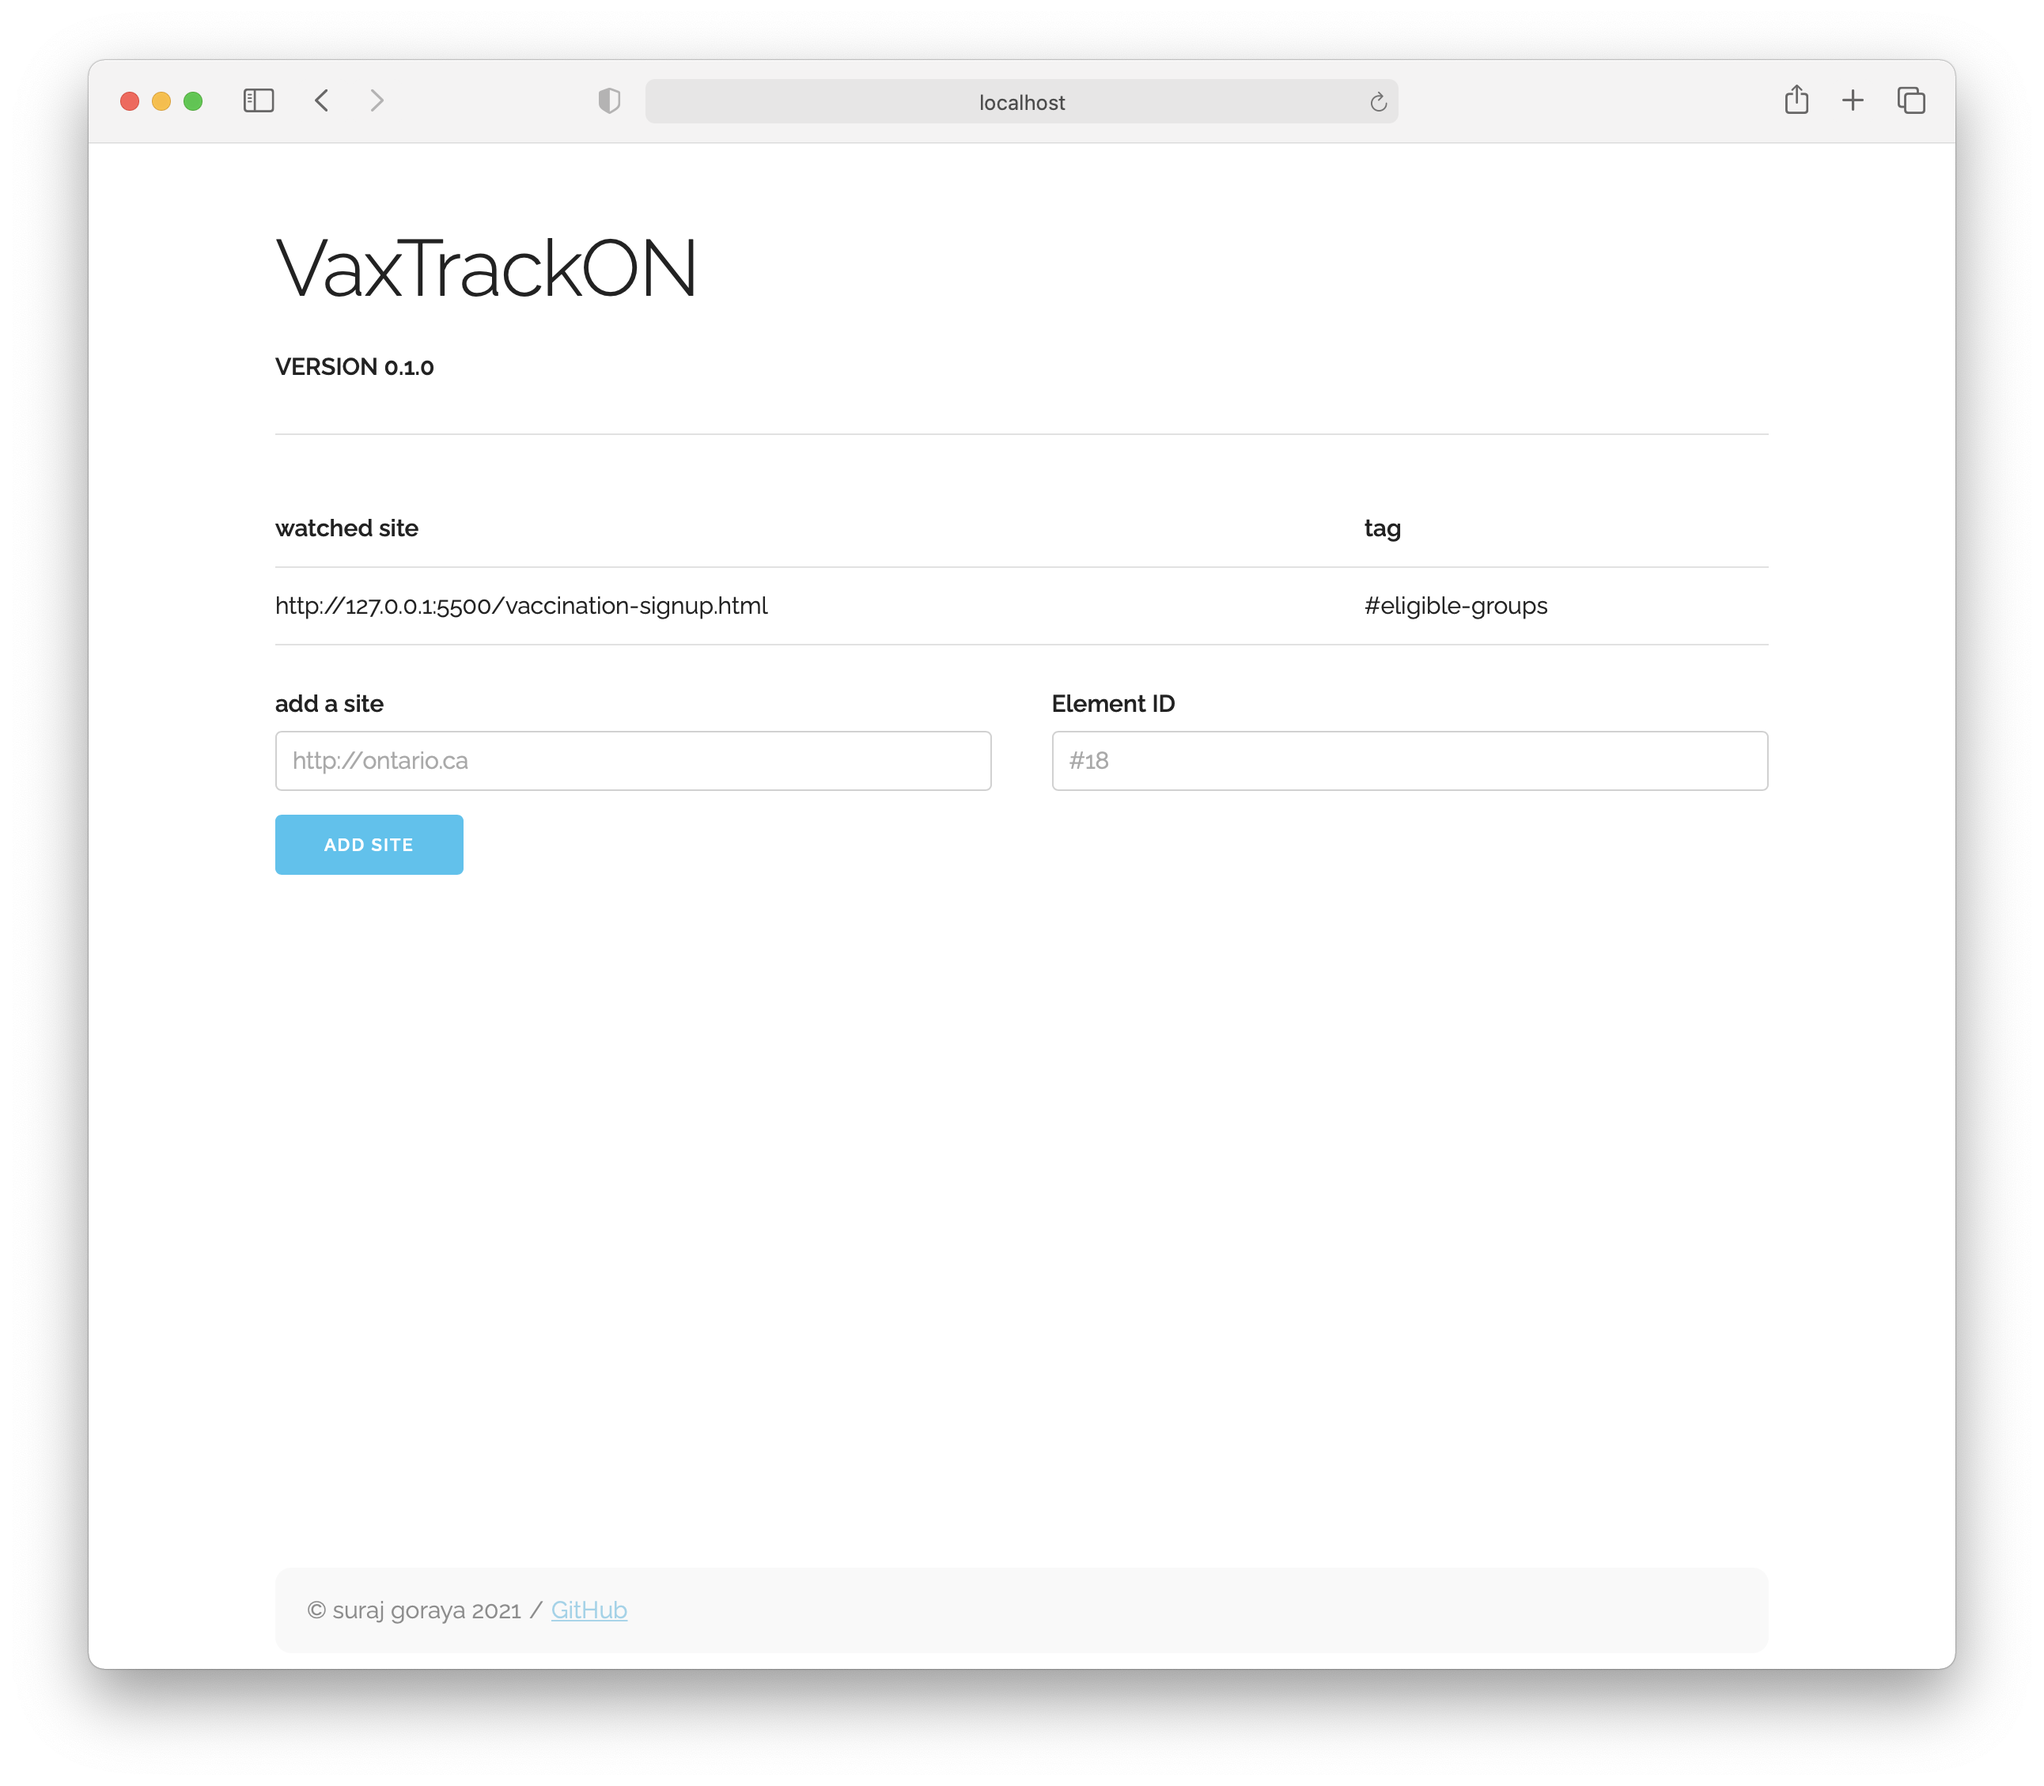
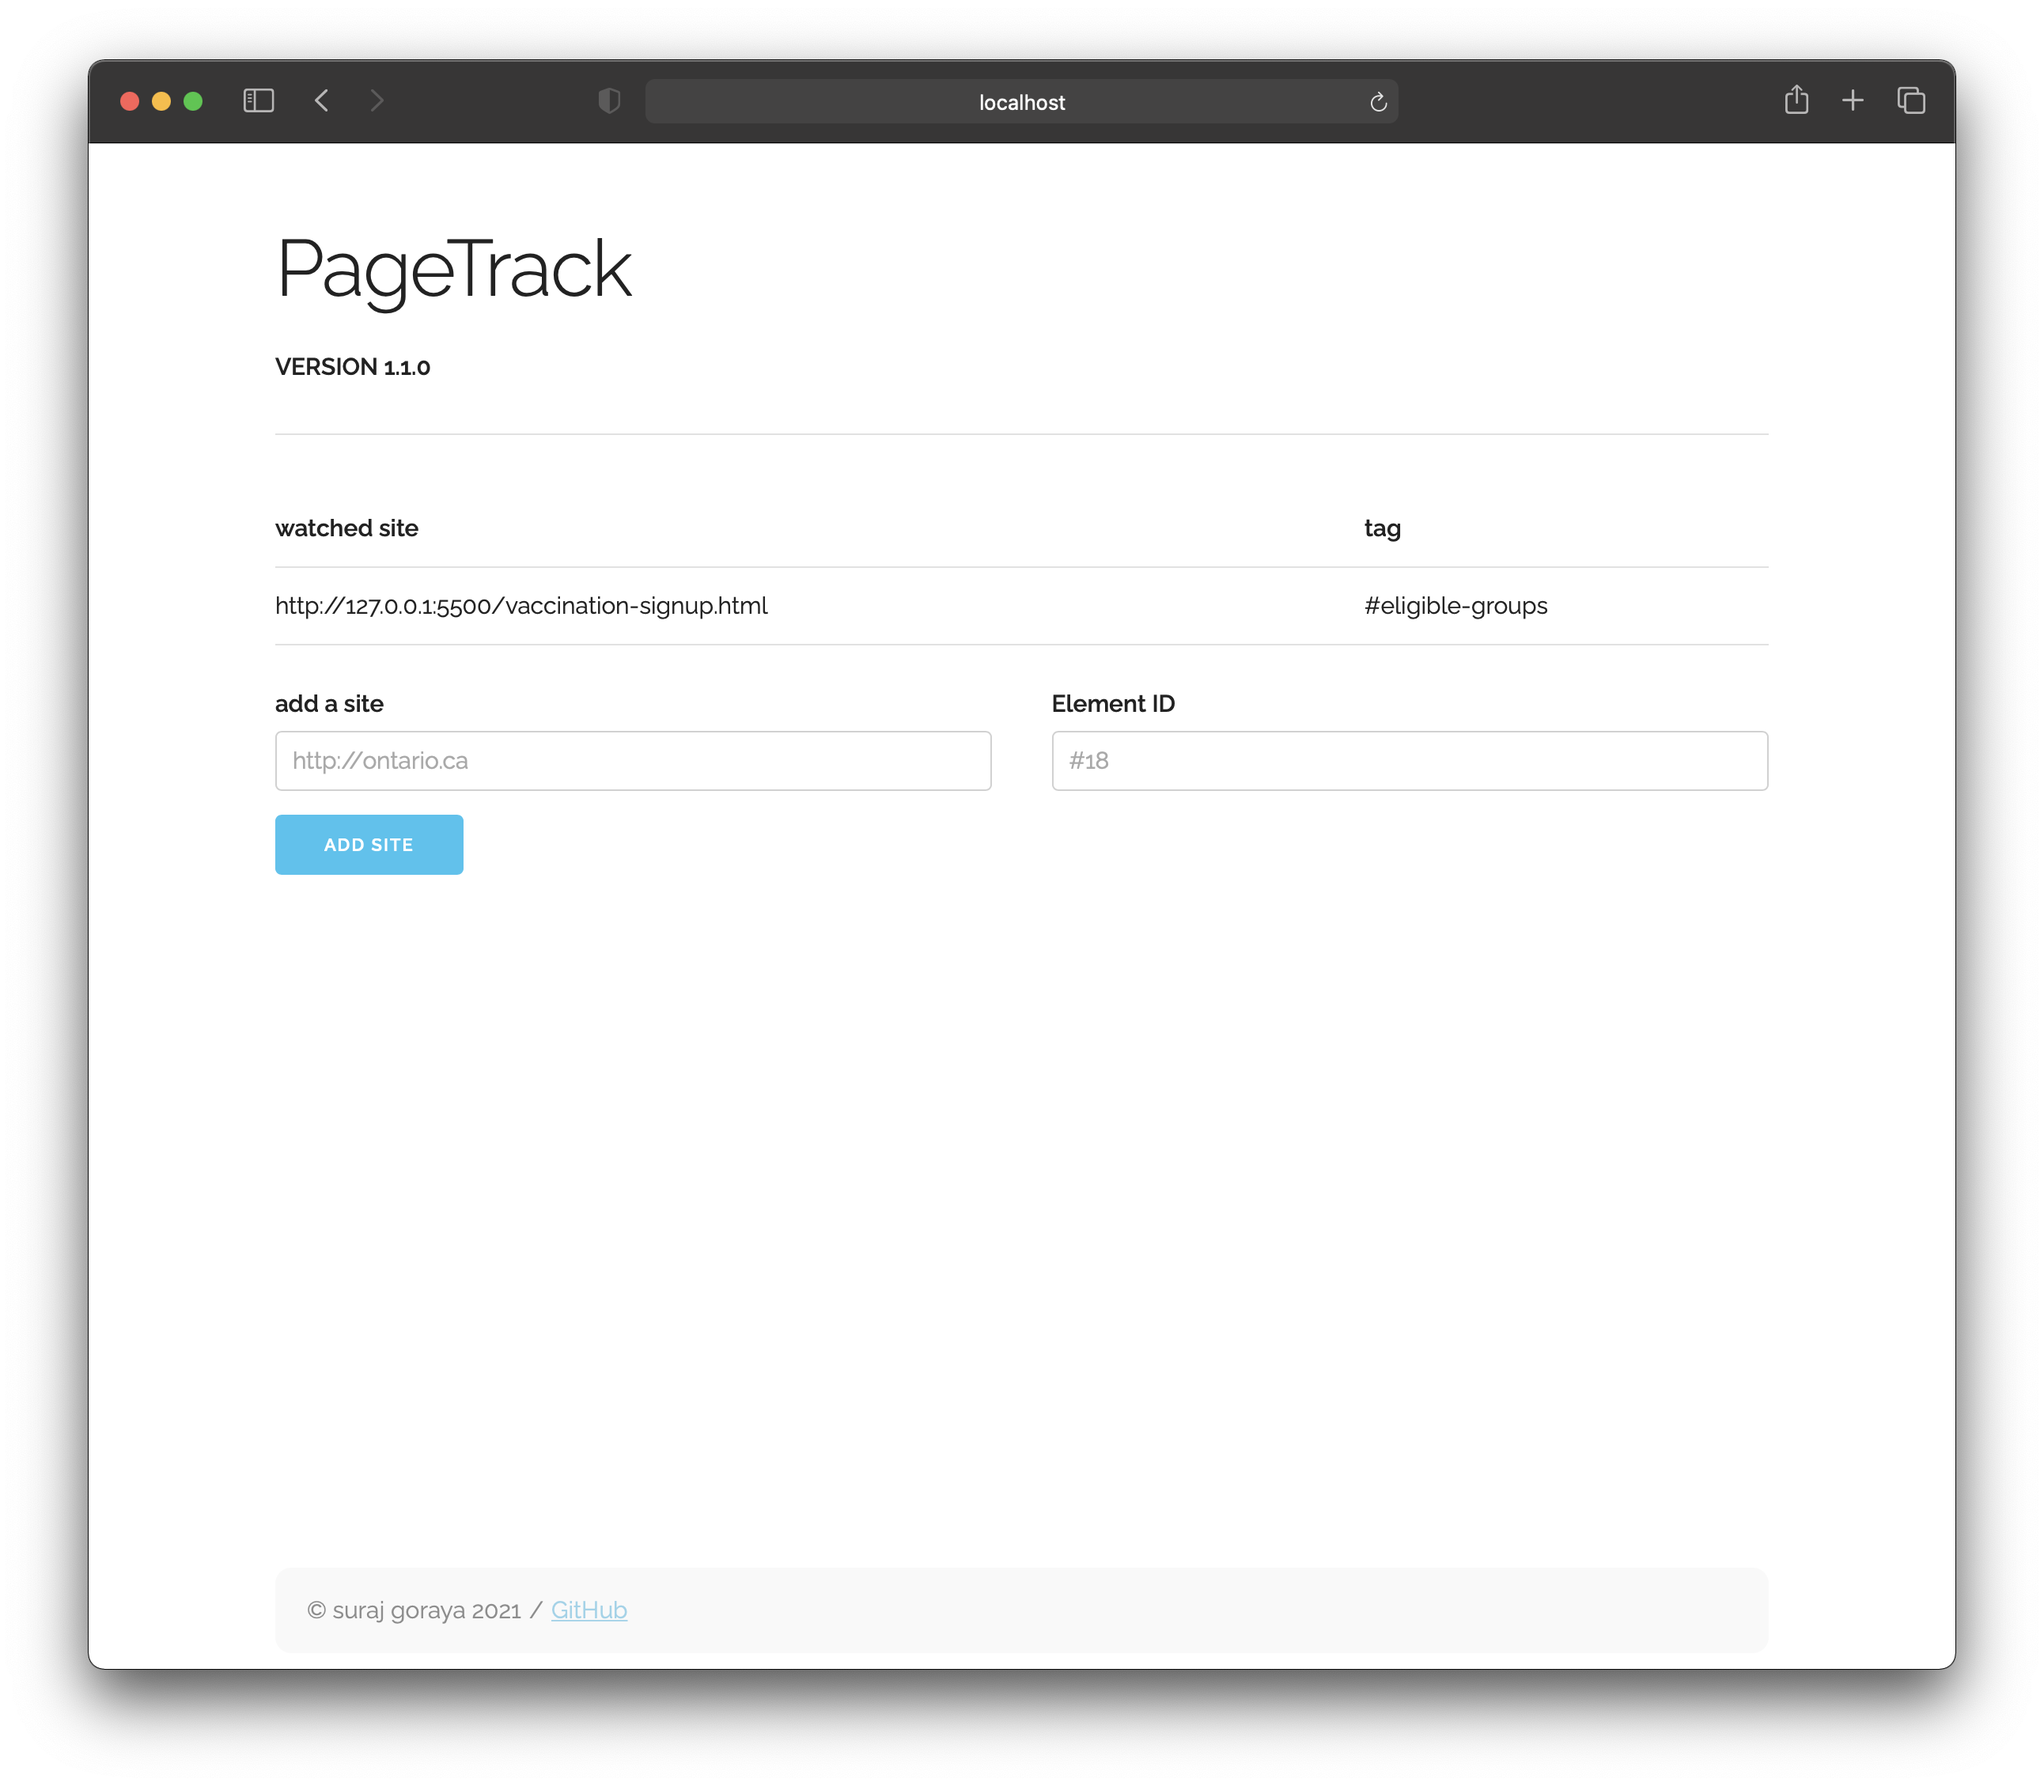
docs: :truck: Rename VaxTrackON -> PageTrack

Changed region(s): [[0.031, 0.031, 0.9907, 0.961], [0.1238, 0.124, 0.3406, 0.217]]

diff --git a/README.md b/README.md
@@ -1,5 +1,5 @@
 ![A screenshot of a notification indicating the webpage has changed](/docs/notification_screenshot.png?raw=true)
-# VaxTrackON
+# PageTrack
 A small node based utility which tracks changes to the Ontario booking portals and lets the user know that the webpage has changed. 
 Usually this means a new age group or postal code has been added.
 
@@ -10,7 +10,7 @@ This utility allows for people to watch webpages, and specific elements, nodes/d
 Webpages can be added to the watch list by navigating to http://localhost:9000, this will bring up a small web-based UI which allows you to specify a URL as well as a node to watch specifically. :anger: **This is currently required!** :anger: 
 
 You can specify which element you want watched by either providing a `.class-name` for watching a particular element with that class (where `class-name` is the name of the class), or you can provide a `#id-name`, (where `id-name` is the ID on the element). If you want to watch the WHOLE page, you can specify `html` in that field.
-![A screenshot of the VaxTrackON portal, showing a table with a watched site](/docs/portal_screenshot.png?raw=true)
+![A screenshot of the PageTrack portal, showing a table with a watched site](/docs/portal_screenshot.png?raw=true)
 ## Built on/with
 * NodeJS
 * VueJS
